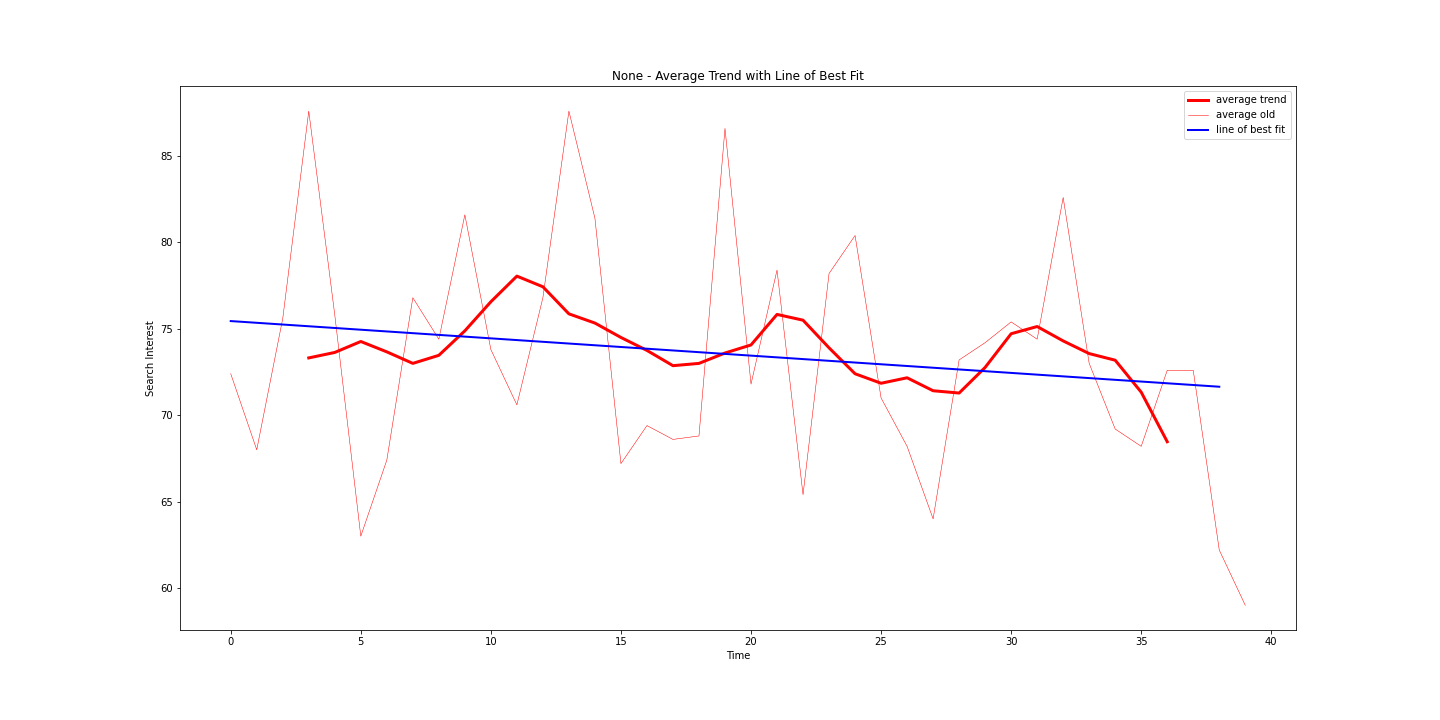
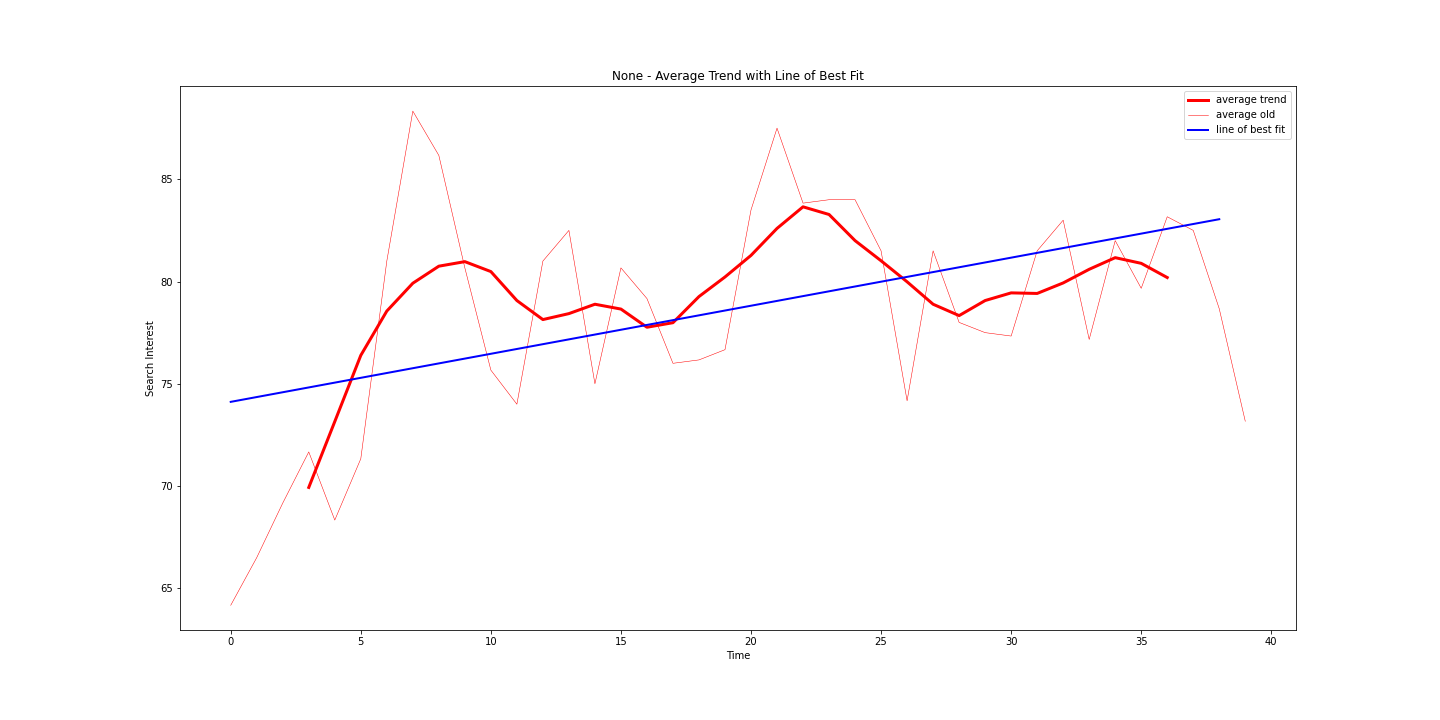
google trend API keyword update

diff --git a/dev/google_trend.py b/dev/google_trend.py
@@ -23,11 +23,12 @@ import utility as util
 ################################################################################
 # %% initialization
 print("Total weeks: ", util.week_num)
-kw_list = ['depression',
-           'insomnia',
-           'lonelines',
-           'panic attack',
-           'anxiety']
+kw_list = ['ageusia',
+           'abdominal pain',
+           'loss of appetite',
+           'anorexia',
+           'diarrhea',
+           'vomiting']
 keyword_color = ['red', 'blue', 'orange', 'yellow',
                  'gray', 'green', 'violet', 'black',
                  'magenta', 'cyan']
@@ -121,7 +122,7 @@ for row in range(len(df)):
 df_ave = df.copy()
 plt.figure(figsize=(20,10))
 
-fig = sm.tsa.seasonal_decompose(df_ave['total'], period=season_period)
+fig = sm.tsa.seasonal_decompose(df_ave['total'], period=util.season_period)
 plt.plot(fig.trend, color='red', linewidth=3)
 plt.plot(df_ave['total'], color='red', linewidth=0.5)
 
@@ -155,7 +156,7 @@ print('p value: %.4f' % stat[3])
 
 ### plotting
 plt.figure(figsize=(20,10))
-fig = sm.tsa.seasonal_decompose(df_ave['total'], period=season_period)
+fig = sm.tsa.seasonal_decompose(df_ave['total'], period=util.season_period)
 plt.plot(fig.trend, color='red', linewidth=3)
 plt.plot(df_ave['total'], color='red', linewidth=0.5)
 plt.plot(x, fn(x), linestyle='solid', color='blue', linewidth=2)
@@ -171,3 +172,5 @@ fig4 = plt.gcf()
 plt.show()
 fig4.savefig(fig4_path)
 
+
+# %%
